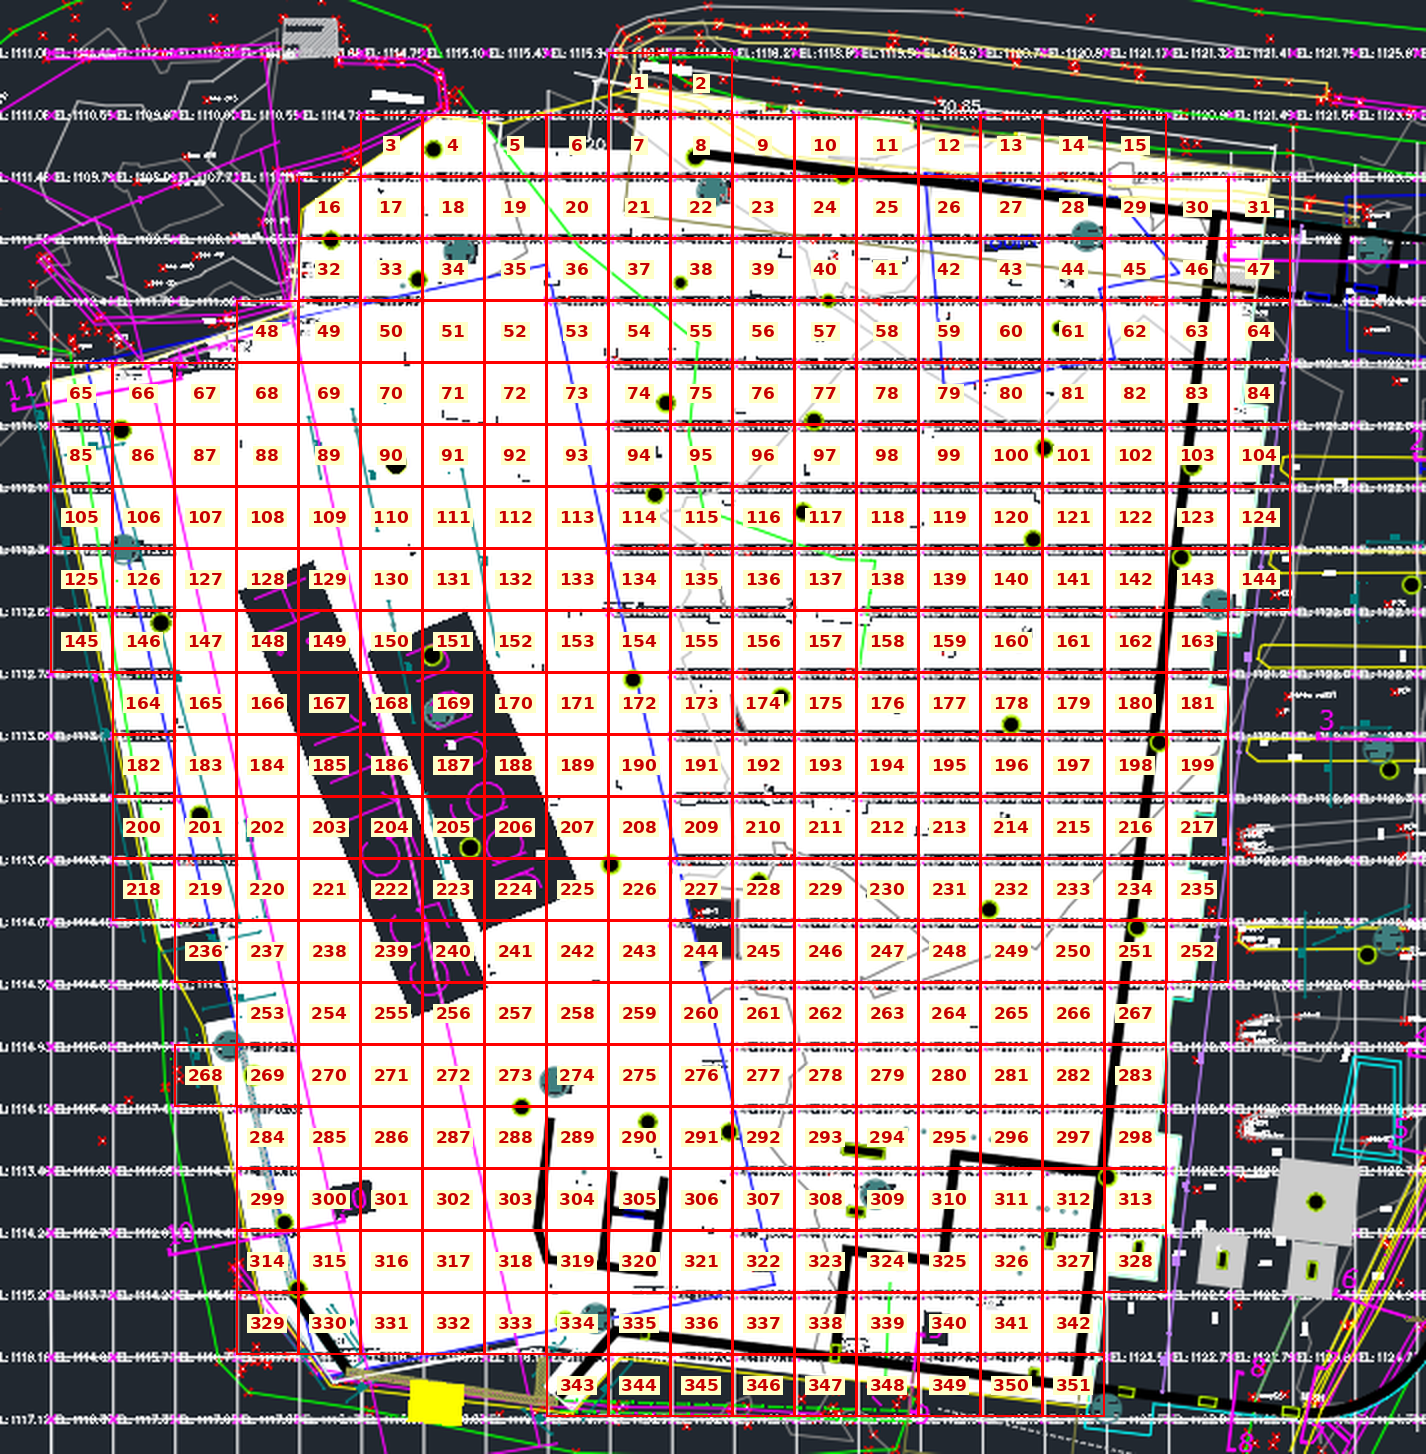
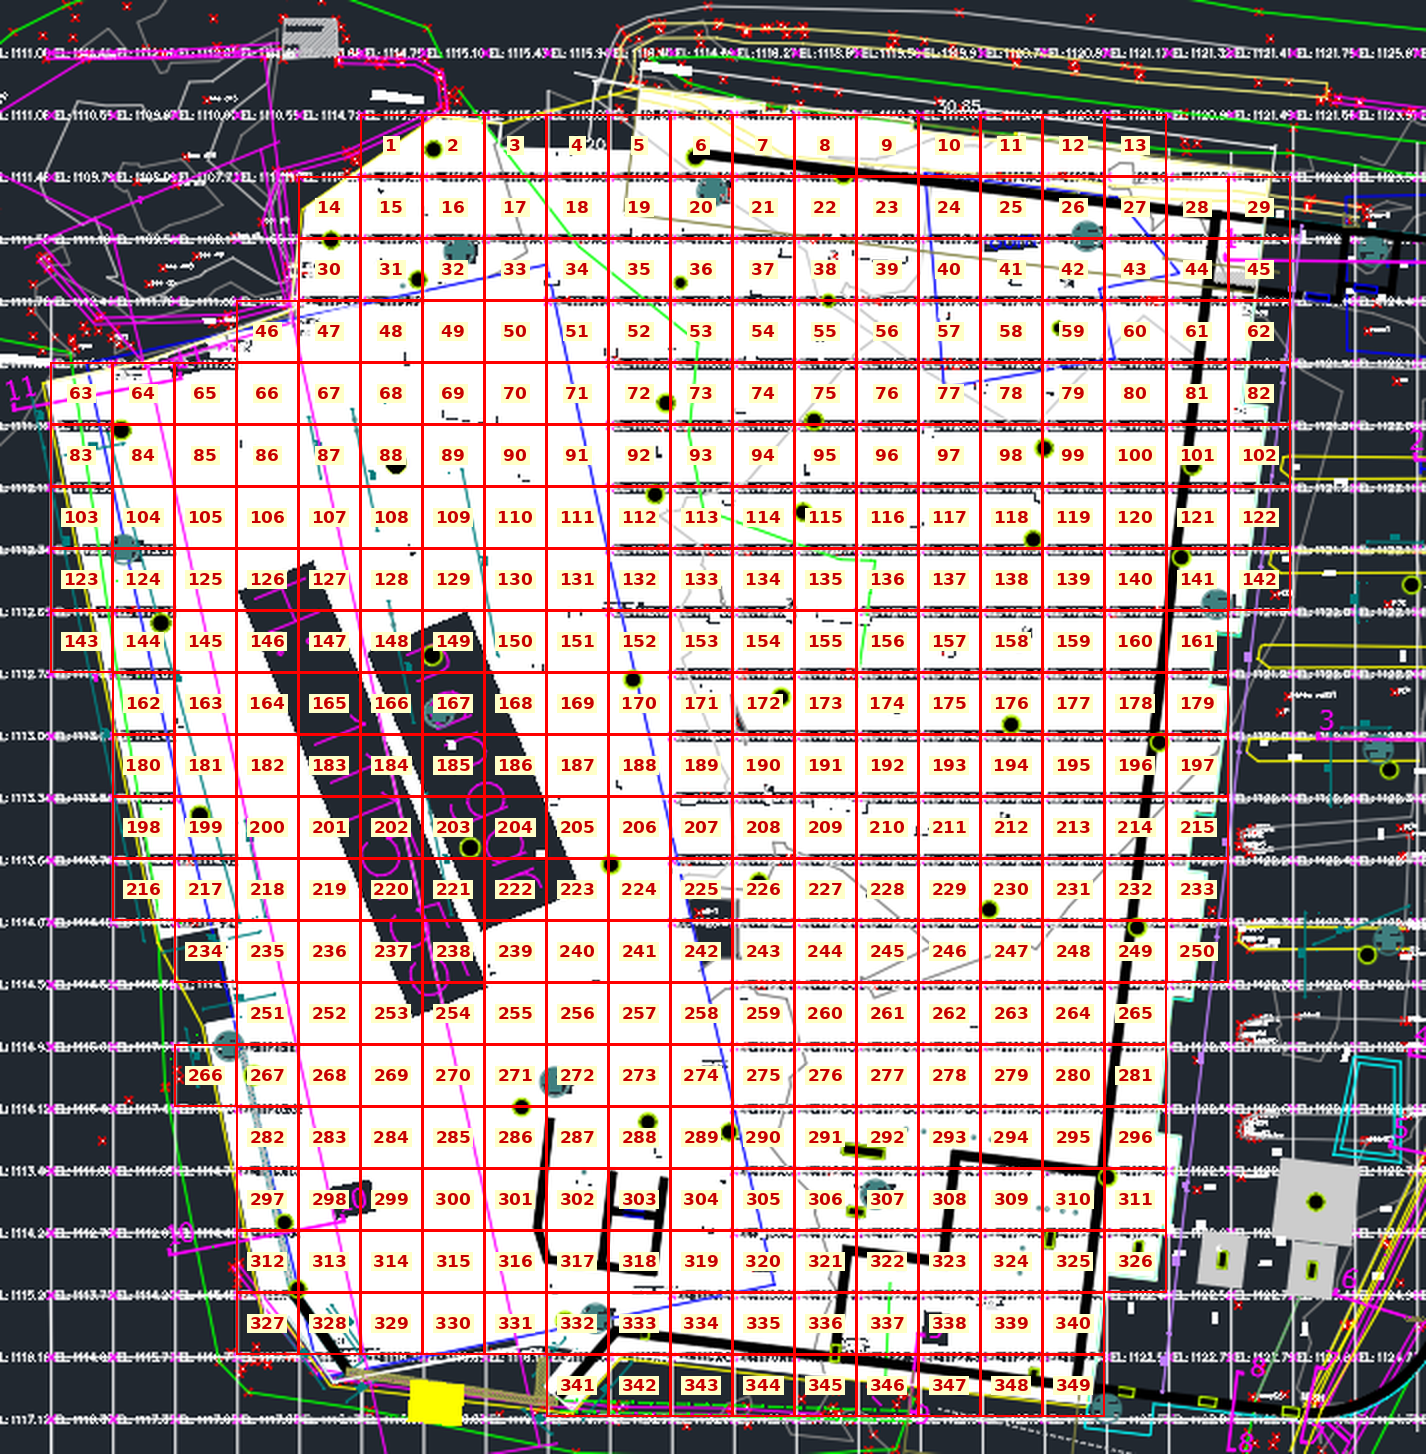
Drop partial top row outside hatched area
Claude-Session: https://claude.ai/code/session_017e4N5joefabz8rqJc3HWS5

diff --git a/number_grid.py b/number_grid.py
@@ -10,7 +10,7 @@ for j in range(len(ys)-1):
     f=w[y0+2:y1-1,x0+2:x1-1].mean() if x1-x0>4 and y1-y0>4 else 0
     row.append(f>0.15)
   idx=[i for i,v in enumerate(row) if v]
-  if idx and j>0:
+  if idx and j>1:
     for i in range(idx[0],idx[-1]+1): cells.append((j,i))
 img=img.resize((img.width*2,img.height*2),Image.LANCZOS); d=ImageDraw.Draw(img)
 font=ImageFont.truetype('/usr/share/fonts/truetype/dejavu/DejaVuSans-Bold.ttf',17)
